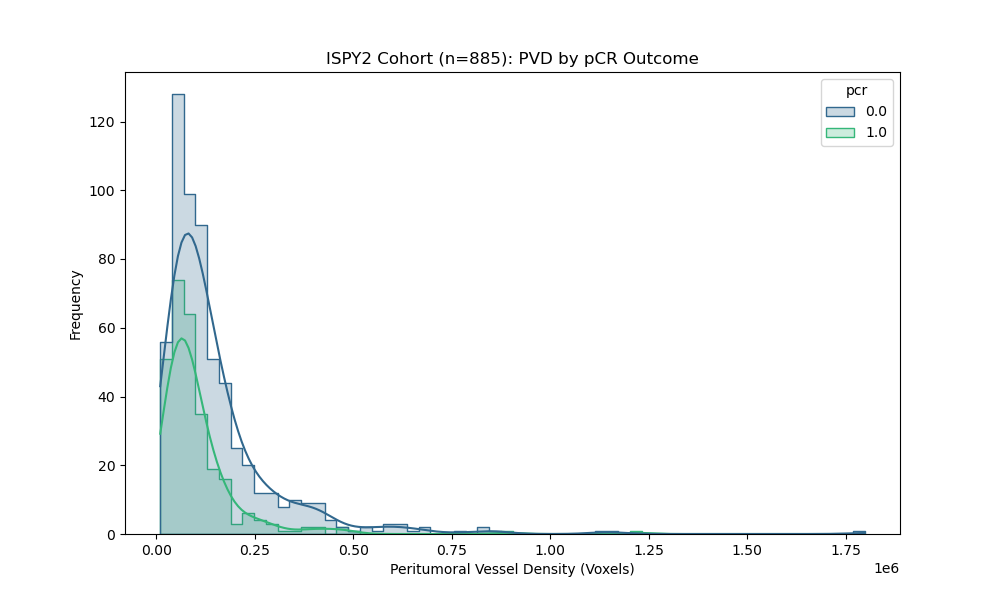
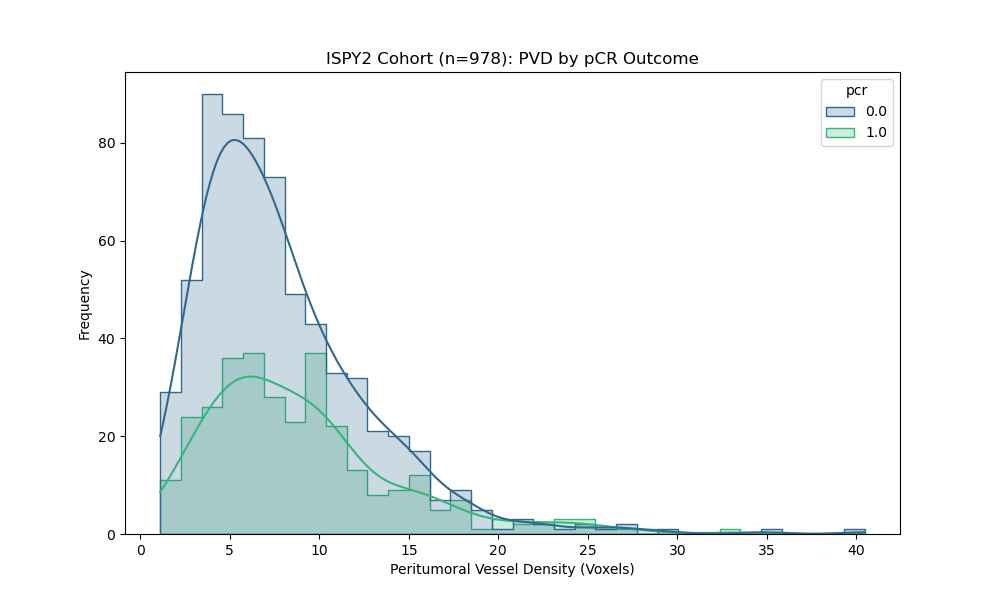
Changed tumor calculations

diff --git a/ML-Pipeline/extract_pvd.py b/ML-Pipeline/extract_pvd.py
@@ -1,15 +1,11 @@
 import os
 import glob
 import pandas as pd
+import SimpleITK as sitk
 from tqdm import tqdm
 from pvd_feature import get_pvd_feature 
 
-def run_pvd_pipeline(dataset_name):
-    """
-    Reproducible PVD extraction for DUKE or ISPY2.
-    Handles the structural differences in mask storage between datasets.
-    """
-    
+def pvd_pipeline(dataset_name):
     config = {
         "DUKE": {
             "data_dir": "/net/projects2/vanguard/vessel_segmentations/DUKE",
@@ -26,32 +22,40 @@ def run_pvd_pipeline(dataset_name):
     }
 
     c = config.get(dataset_name.upper())
-    if not c:
-        print(f"Error: Dataset {dataset_name} not supported.")
-        return
-
     results = []
     patient_ids = [d for d in os.listdir(c['data_dir']) if os.path.isdir(os.path.join(c['data_dir'], d))]
 
     for p_id in tqdm(patient_ids, desc=f"Calculating {dataset_name} PVD"):
+        if dataset_name.upper() == "DUKE":
+            num_id = p_id.split('_')[-1]
+            mask_search = f"{c['mask_dir']}/Breast_MRI_{num_id}/*{c['mask_ext']}"
+            mask_files = glob.glob(mask_search)
+            if not mask_files: continue
+            tumor_path = next((f for f in mask_files if "Dense" in f), mask_files[0])
+        else: 
+            tumor_path = os.path.join(c['mask_dir'], f"{p_id}{c['mask_ext']}")
+
+        if not os.path.exists(tumor_path):
+            continue
+
         try:
             cl_path = f"{c['data_dir']}/{p_id}/images/{p_id}_0000_vessel_segmentation.npz"
-            
-            if dataset_name.upper() == "DUKE":
-                num_id = p_id.split('_')[-1]
-                mask_search = f"{c['mask_dir']}/Breast_MRI_{num_id}/*{c['mask_ext']}"
-                mask_files = glob.glob(mask_search)
-                if not mask_files: continue
-                tumor_path = next((f for f in mask_files if "Dense" in f), mask_files[0])
-            
-            else: #ISPY2
-                tumor_path = os.path.join(c['mask_dir'], f"{p_id}{c['mask_ext']}")
-
-            if not os.path.exists(cl_path) or not os.path.exists(tumor_path):
+            if not os.path.exists(cl_path):
                 continue
 
-            pvd_value = get_pvd_feature(cl_path, tumor_path, mm_dilation=10)
-            results.append({"Patient_ID": p_id, "PVD": pvd_value})
+            pvd_count = get_pvd_feature(cl_path, tumor_path, mm_dilation=10)
+            
+            tumor_img = sitk.ReadImage(tumor_path)
+            tumor_img_int = sitk.Cast(tumor_img, sitk.sitkUInt8)
+            
+            stats = sitk.LabelShapeStatisticsImageFilter()
+            stats.Execute(tumor_img_int)
+            
+            labels = stats.GetLabels()
+            tumor_volume = stats.GetNumberOfPixels(1) if 1 in labels else (stats.GetNumberOfPixels(labels[0]) if labels else 0)
+            
+            relative_pvd = pvd_count / tumor_volume if tumor_volume > 0 else 0
+            results.append({"Patient_ID": p_id, "PVD": relative_pvd})
             
         except Exception as e:
             print(f"Skipping {p_id} due to error: {e}")
@@ -61,5 +65,5 @@ def run_pvd_pipeline(dataset_name):
     print(f"\nFinished {dataset_name} - saved {len(df)} results to {c['output']}")
 
 if __name__ == "__main__":
-    run_pvd_pipeline("DUKE")
-    run_pvd_pipeline("ISPY2")
+    pvd_pipeline("DUKE")
+    pvd_pipeline("ISPY2")
